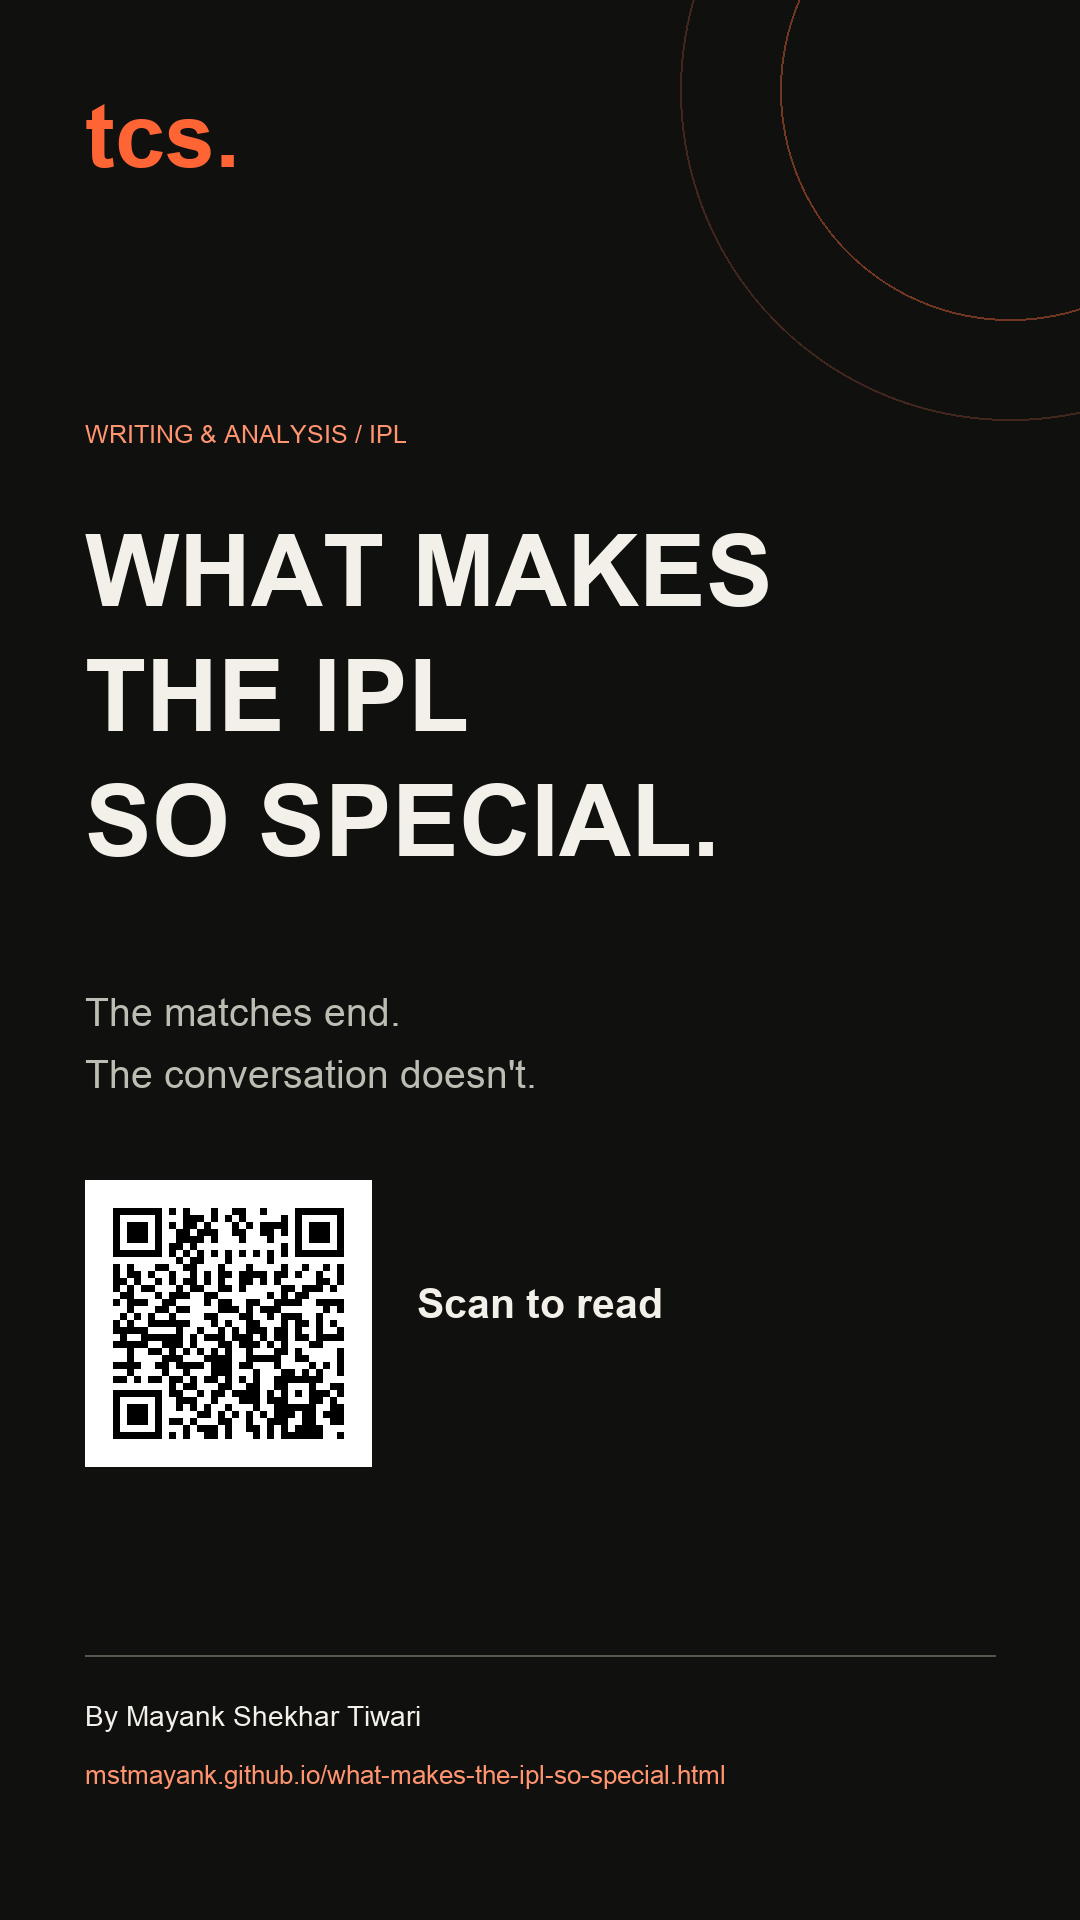
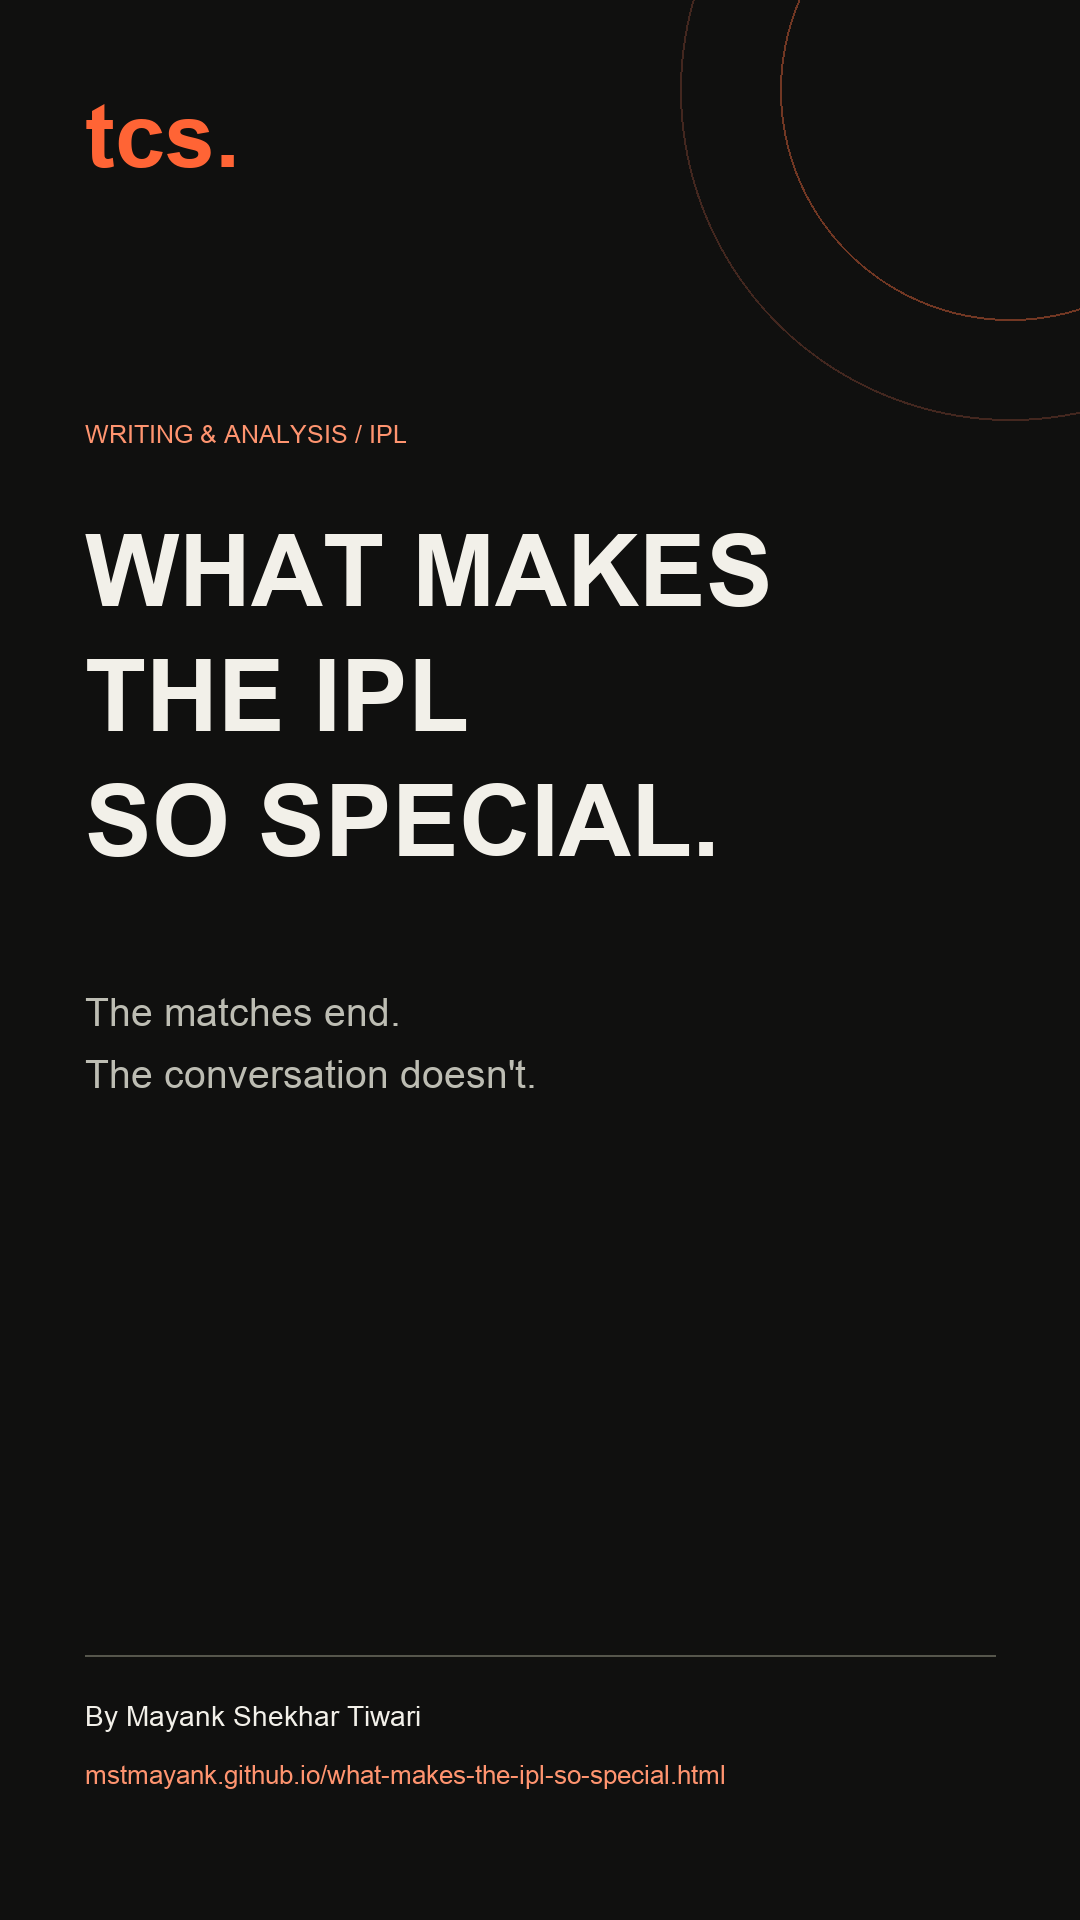
Add article link copying and remove story QR

Changed region(s): [[0.0611, 0.5938, 0.3667, 0.7812], [0.3972, 0.6562, 0.6111, 0.6875]]

diff --git a/what-makes-the-ipl-so-special.html b/what-makes-the-ipl-so-special.html
@@ -16,7 +16,7 @@
 <p>We argue about decisions we have no control over, defend players who don't know we exist, and spend hours imagining combinations that may never take the field.</p>
 <p>And somehow, we enjoy every bit of it.</p>
 <p>Because the IPL is no longer just a two-month cricket tournament. It's a year-round conversation.</p>
-<p>The matches may last a few hours. The season may last two months. But for the fans, the IPL never really ends.</p></div></article><div class="bottom"><a href="./#writing">← Back to Writing &amp; Analysis</a><div class="share-actions"><button id="share" type="button">Share article ↗</button><button id="share-story" type="button">Share story card ↗</button><a class="download-card" href="ipl-story-card.png" download="tcs-ipl-story.png">Download story card ↓</a></div></div><p class="share-help">For Instagram Stories or WhatsApp Status, share or download the story card, then add the article link in the app.</p><p id="status" aria-live="polite"></p></main><script>
+<p>The matches may last a few hours. The season may last two months. But for the fans, the IPL never really ends.</p></div></article><div class="bottom"><a href="./#writing">← Back to Writing &amp; Analysis</a><div class="share-actions"><button id="share" type="button">Share article ↗</button><button id="copy-link" type="button">Copy article link</button><button id="share-story" type="button">Share story card ↗</button><a class="download-card" href="ipl-story-card.png" download="tcs-ipl-story.png">Download story card ↓</a></div></div><p class="share-help">For Instagram Stories, upload the card and paste the article URL into a Link sticker. For a tappable link in WhatsApp Status, paste the URL into a text status.</p><p id="status" aria-live="polite"></p></main><script>
 const articleUrl = 'https://mstmayank.github.io/what-makes-the-ipl-so-special.html';
 const articleTitle = 'What Makes the IPL So Special.';
 const status = document.getElementById('status');
@@ -33,6 +33,7 @@ async function copyArticleLink() {
     status.textContent = 'Copy this link to share: ' + articleUrl;
   }
 }
+document.getElementById('copy-link').addEventListener('click', copyArticleLink);
 document.getElementById('share').addEventListener('click', async () => {
   if (!navigator.share) { await copyArticleLink(); return; }
   try {
